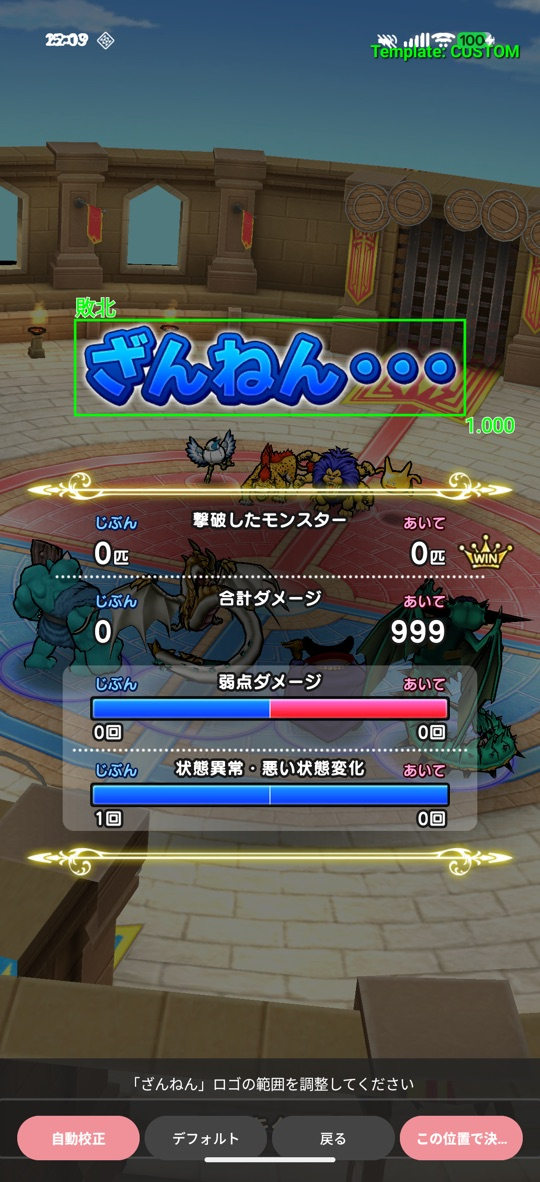
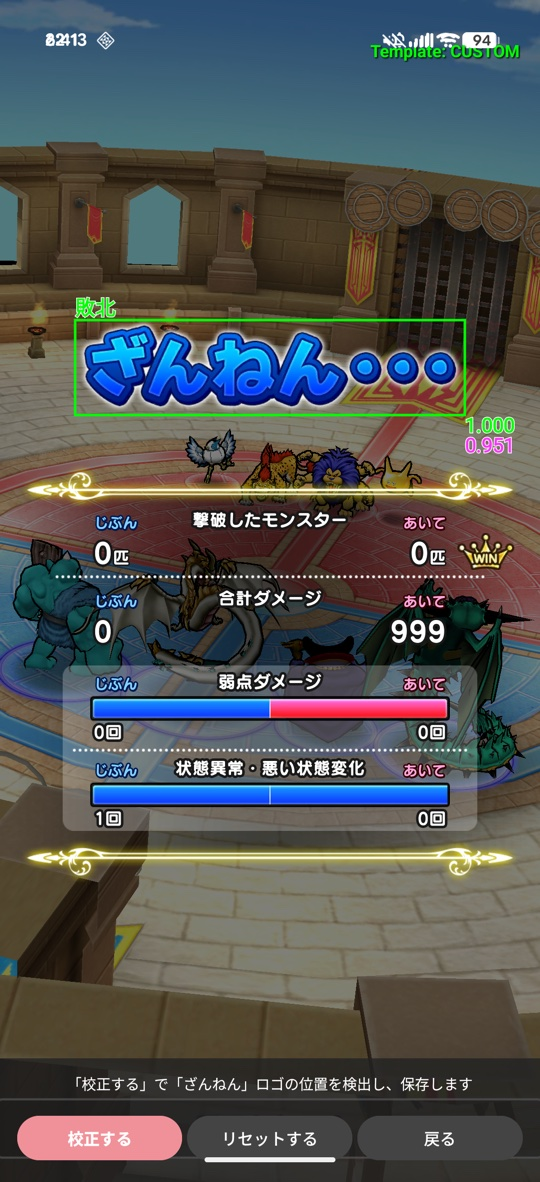
docs(help): 校正画面 5 枚 + GP 関連 4 枚のスクショを 26.10.2 の新 UI で差し替え、GP モード中のメイン画面を追加 (相手名はマスク済み)

diff --git a/docs/help.html b/docs/help.html
@@ -391,6 +391,10 @@
     <figcaption>手順1: 校正に成功すると右上に GRAND PRIX MODE と表示</figcaption>
   </figure>
   <figure>
+    <img src="images/help-25-main-gp.png" alt="グランプリモード中のメイン画面" loading="lazy">
+    <figcaption>手順1: グランプリモード中はメイン画面の文字が MONSTER GRANDPRIX に変わる</figcaption>
+  </figure>
+  <figure>
     <img src="images/help-22-gp-rating.jpg" alt="レーティング表示画面" loading="lazy">
     <figcaption>手順3で自動的に読み取る「レーティングスコア画面」の例</figcaption>
   </figure>
